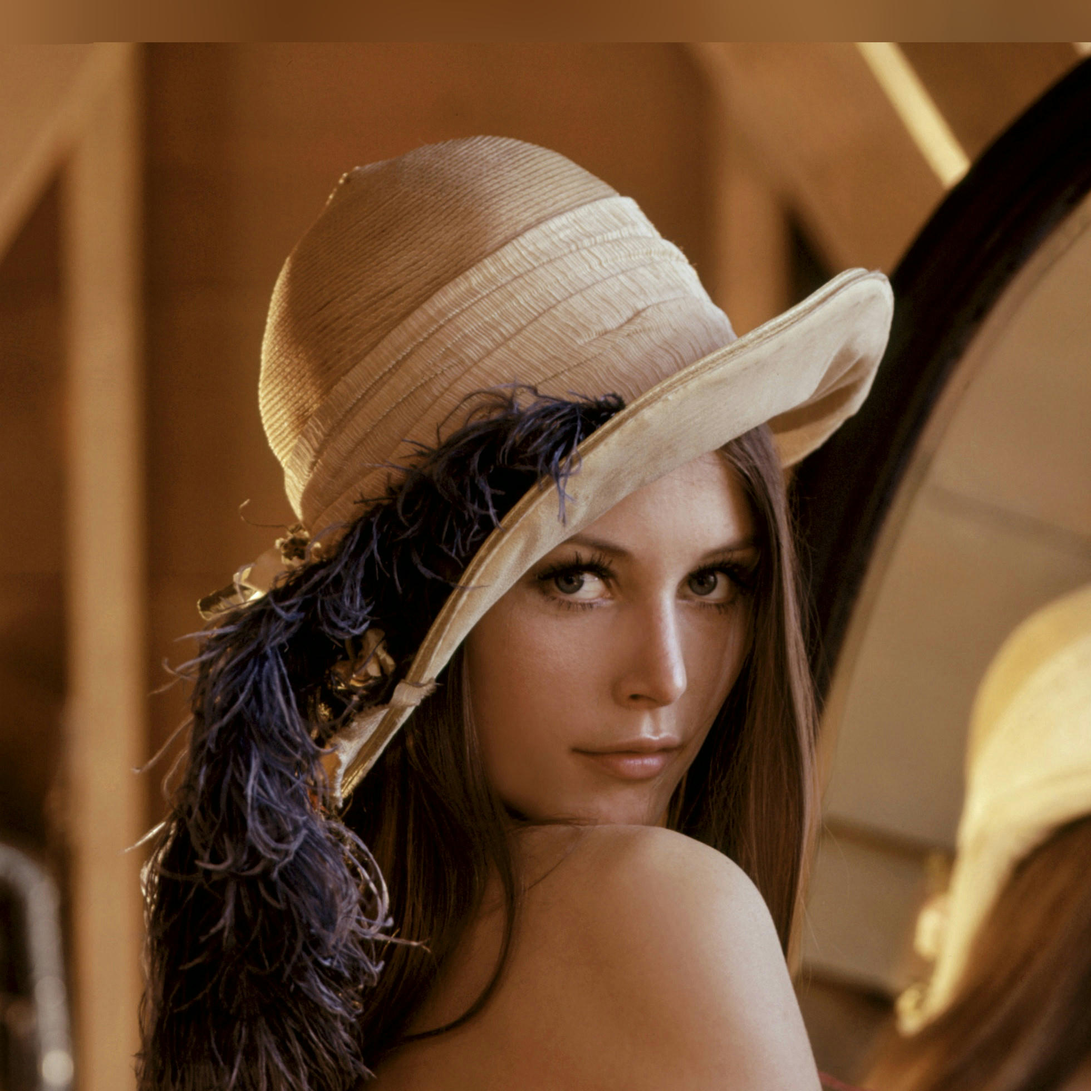
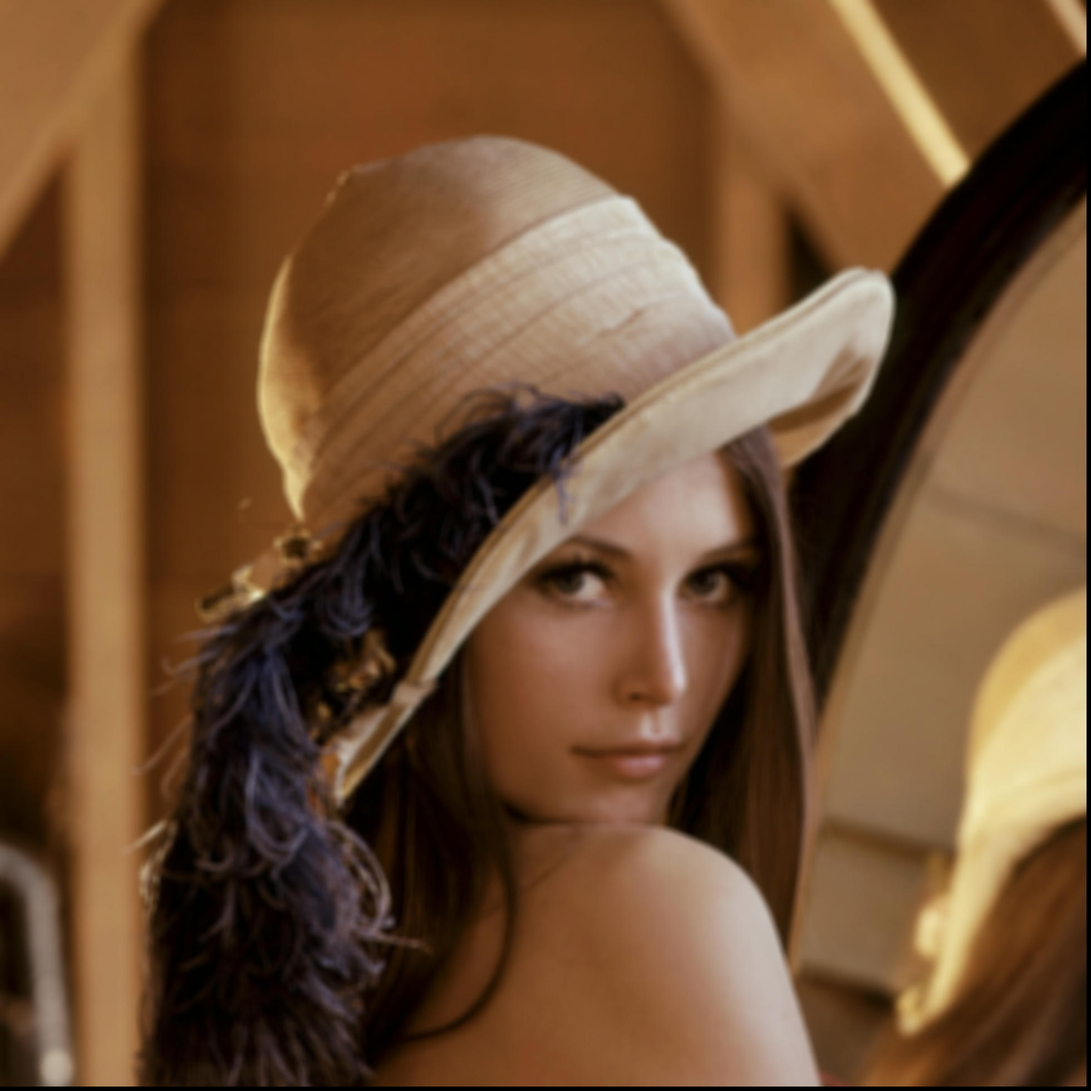
Convolution working with square filter and memory prefetch working

diff --git a/src/main.rs b/src/main.rs
@@ -140,7 +140,7 @@ fn paint_blue() -> ocl::Result<()> {const KERNEL_SIZE: u32 = 31;
 
 
 fn convolute() -> ocl::Result<()> {
-    const KERNEL_SIZE: u32 = 21;
+    const KERNEL_SIZE: u32 = 15;
     const KERNEL_SIZE_HALF: u32 = KERNEL_SIZE / 2;
     const BUFF_SIZE: u32 = KERNEL_SIZE * KERNEL_SIZE;
     const BUFF_VAL: f32 = 1.0 / BUFF_SIZE as f32;
